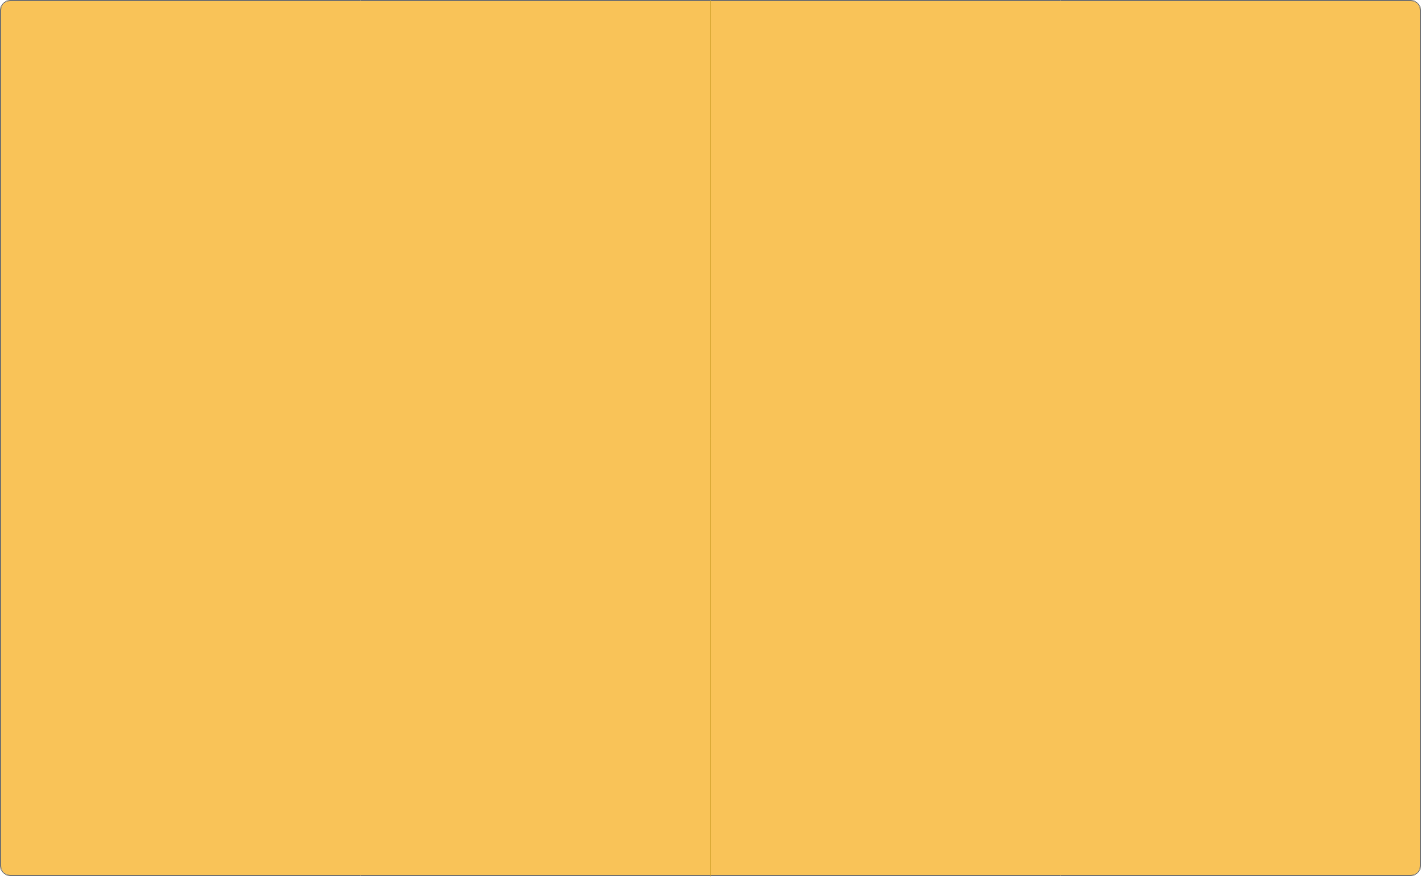
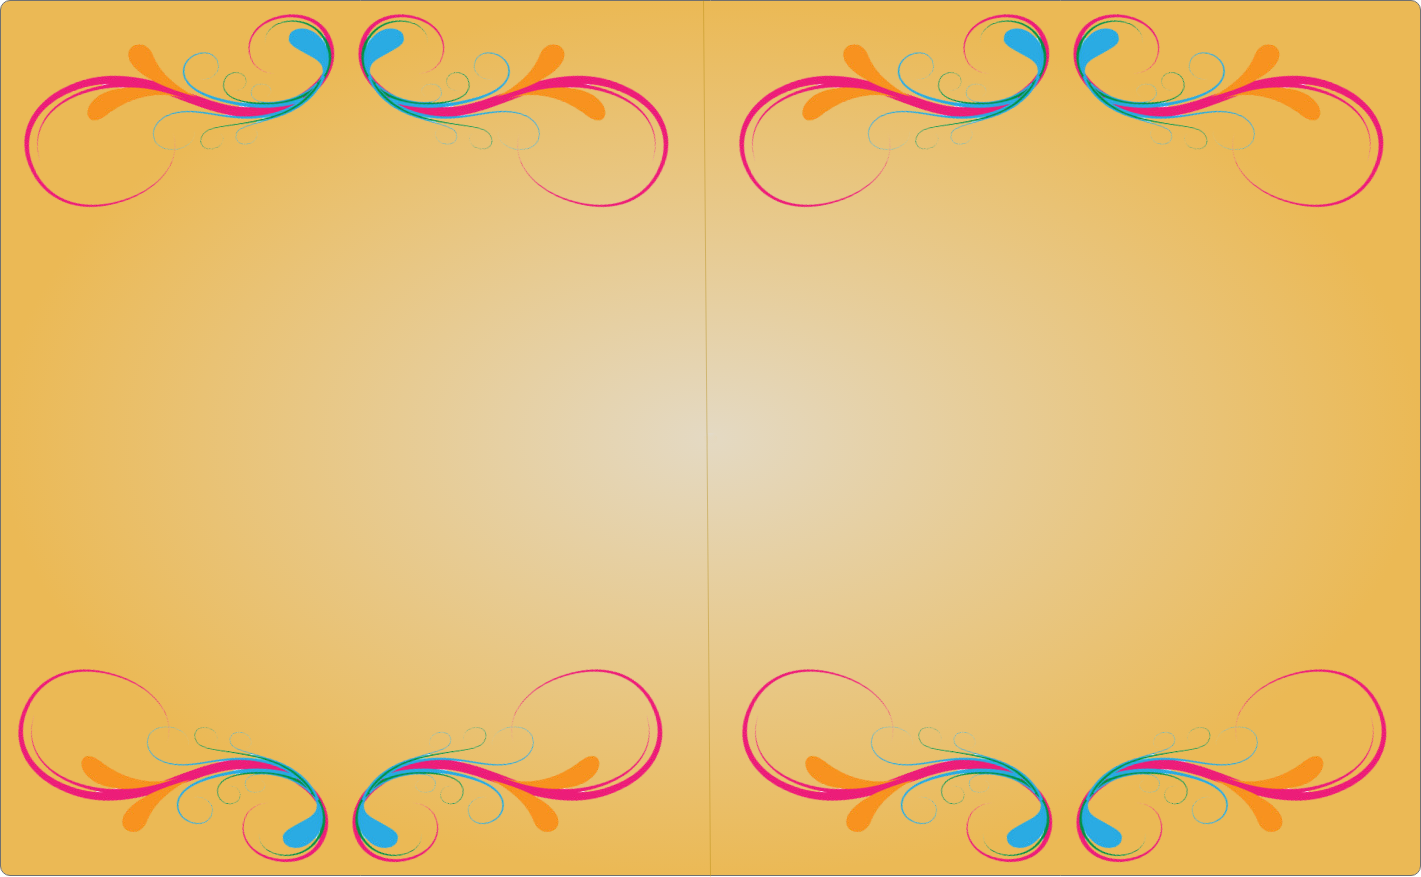
Add restaurant menu style

diff --git a/templates/menu.html b/templates/menu.html
@@ -1,37 +1,123 @@
 <!DOCTYPE html>
 <html lang="en">
   <head>
+    <link rel=stylesheet type=text/css href="{{ url_for('static',
+    filename='styles.css')
+
+
+
+
+
+
+
+
+    }}">
     <meta charset="UTF-8" />
     <meta name="viewport" content="width=device-width, initial-scale=1.0" />
     <meta http-equiv="X-UA-Compatible" content="ie=edge" />
     <title>Menu Items</title>
   </head>
   <body>
-    <h1>
+    <div class="menucontain">
+      <img src="../../../static/menu.png" class="orangemenu" />
+      <div class="menuwidth">
+        <div class="appetizer">
+          <h2 class="coursetitle">Appetizers</h2>
+          {% if items %} {% for item in items %} {% if item.course ==
+          'appetizer' or item.course == 'Appetizer' %}
+          <div class="course">
+            <h4 class="itemname">
+              {{ item.name }}<span style="float:right;">{{ item.price }}</span>
+            </h4>
+            <p class="itemdesc">{{ item.description }}</p>
+            <!--<a
+                        href="{{ url_for('editMenuItem', restaurant_id=restaurant.id, menu_id=item.id) }}"
+                        >Edit</a
+                      >
+                      <a
+                        href="{{ url_for('deleteMenuItem', restaurant_id=restaurant.id, menu_id=item.id) }}"
+                        >Delete</a>-->
+          </div>
+          {% endif %} {% endfor %} {% else %}
+          <p>There are currently no menu items.</p>
+          {% endif %}
+        </div>
+        <div class="entree">
+          <h2 class="coursetitle">Entrees</h2>
+          {% if items %} {% for item in items %} {% if item.course == 'entree'
+          or item.course == 'Entree' %}
+          <div class="course">
+            <h4 class="itemname">
+              {{ item.name }}<span style="float:right;">{{ item.price }}</span>
+            </h4>
+            <p class="itemdesc">{{ item.description }}</p>
+            <!--<a
+                href="{{ url_for('editMenuItem', restaurant_id=restaurant.id, menu_id=item.id) }}"
+                >Edit</a
+              >
+              <a
+                href="{{ url_for('deleteMenuItem', restaurant_id=restaurant.id, menu_id=item.id) }}"
+                >Delete</a>-->
+          </div>
+          {% endif %} {% endfor %} {% else %}
+          <p>There are currently no menu items.</p>
+          {% endif %}
+        </div>
+        <div class="dessert">
+          <h2 class="coursetitle">Desserts</h2>
+          {% if items %} {% for item in items %} {% if item.course == 'dessert'
+          or item.course == 'Dessert' %}
+          <div class="course">
+            <h4 class="itemname">
+              {{ item.name }}<span style="float:right;">{{ item.price }}</span>
+            </h4>
+            <p class="itemdesc">{{ item.description }}</p>
+            <!--<a
+                        href="{{ url_for('editMenuItem', restaurant_id=restaurant.id, menu_id=item.id) }}"
+                        >Edit</a
+                      >
+                      <a
+                        href="{{ url_for('deleteMenuItem', restaurant_id=restaurant.id, menu_id=item.id) }}"
+                        >Delete</a>-->
+          </div>
+          {% endif %} {% endfor %} {% else %}
+          <p>There are currently no menu items.</p>
+          {% endif %}
+        </div>
+        <div class="beverage">
+          <h2 class="coursetitle">Beverages</h2>
+          {% if items %} {% for item in items %} {% if item.course == 'beverage'
+          or item.course == 'Beverage' %}
+          <div class="course">
+            <h4 class="itemname">
+              {{ item.name }}<span style="float:right;">{{ item.price }}</span>
+            </h4>
+            <p class="itemdesc">{{ item.description }}</p>
+            <!--<a
+                        href="{{ url_for('editMenuItem', restaurant_id=restaurant.id, menu_id=item.id) }}"
+                        >Edit</a
+                      >
+                      <a
+                        href="{{ url_for('deleteMenuItem', restaurant_id=restaurant.id, menu_id=item.id) }}"
+                        >Delete</a>-->
+          </div>
+          {% endif %} {% endfor %} {% else %}
+          <p>There are currently no menu items.</p>
+          {% endif %}
+        </div>
+      </div>
+    </div>
+    <div class="yellowbox">
+      <img src="../../../static/restauranttitle.png" class="title" />
+    </div>
+    <div class="greenbox"></div>
+    <!--<h1>
       {{ restaurant.name }}
       <h4>
         <a href="{{ url_for('newMenuItem', restaurant_id=restaurant.id) }}"
           >Create new menu item</a
         >
       </h4>
-    </h1>
-
-    {% if items %} {% for item in items %}
-    <div id="menu">
-      {{ item.name }}<br />
-      {{ item.description }}<br />
-      {{ item.price }}<br />
-      <a
-        href="{{ url_for('editMenuItem', restaurant_id=restaurant.id, menu_id=item.id) }}"
-        >Edit</a
-      >
-      <a
-        href="{{ url_for('deleteMenuItem', restaurant_id=restaurant.id, menu_id=item.id) }}"
-        >Delete</a
-      ><br /><br />
-    </div>
-    {% endfor %} {% else %}
-    <p>There are currently no menu items.</p>
-    {% endif %}
+    </h1>-->
   </body>
 </html>

diff --git a/static/styles.css b/static/styles.css
@@ -39,7 +39,7 @@ body {
   border: none;
   text-align: center;
 }
-img.title {
+.title {
   height: 50%;
   width: 50%;
   top: 35%;
@@ -90,4 +90,85 @@ img.title {
 }
 .rname:hover {
   background-color: #f9c459;
+}
+.menucontain {
+  z-index: 1;
+  height: 650px;
+  width: 76vw;
+  position: fixed;
+  bottom: 1%;
+  left: 12%;
+  margin: auto;
+}
+.orangemenu {
+  height: 100%;
+  width: 100%;
+  z-index: 1;
+  position: absolute;
+}
+.menuwidth {
+  position: absolute;
+  top: 20%;
+  left: 3%;
+  height: 58%;
+  width: 95%;
+  z-index: 1;
+  display: grid;
+  grid-template-columns: 1fr 1fr;
+  overflow-y: auto;
+  grid-column-gap: 10px;
+}
+
+.course {
+  /*border: black solid 5px;*/
+  top: 0%;
+  left: 0%;
+  width: 100%;
+  overflow-wrap: break-word;
+}
+.itemname,
+.itemdesc {
+  margin-left: 12px;
+  margin-right: 12px;
+  margin-top: 6px;
+  margin-bottom: 6px;
+  text-decoration-color: black;
+}
+.appetizer {
+  background-color: #6ad99a;
+  opacity: 0.64;
+  border-radius: 20px;
+  display: grid;
+  grid-template-columns: 50% 50%;
+  grid-row: 1;
+  margin-block: 10px;
+}
+.entree {
+  background-color: #31b3ff;
+  opacity: 0.64;
+  border-radius: 20px;
+  display: grid;
+  grid-template-columns: 50% 50%;
+  margin-block: 10px;
+}
+
+.coursetitle {
+  margin: auto;
+  grid-row: 1/2;
+}
+.dessert {
+  background-color: #9f44dc;
+  opacity: 0.64;
+  border-radius: 20px;
+  display: grid;
+  grid-template-columns: 50% 50%;
+  margin-block: 10px;
+}
+.beverage {
+  background-color: #ffeb31;
+  opacity: 0.64;
+  border-radius: 20px;
+  display: grid;
+  grid-template-columns: 50% 50%;
+  margin-block: 10px;
 }

diff --git a/templates/restaurants.html b/templates/restaurants.html
@@ -4,6 +4,7 @@
     <link rel=stylesheet type=text/css href="{{ url_for('static',
 filename='styles.css')
 
+
     }}">
     <meta charset="UTF-8" />
     <meta name="viewport" content="width=device-width, initial-scale=1.0" />
